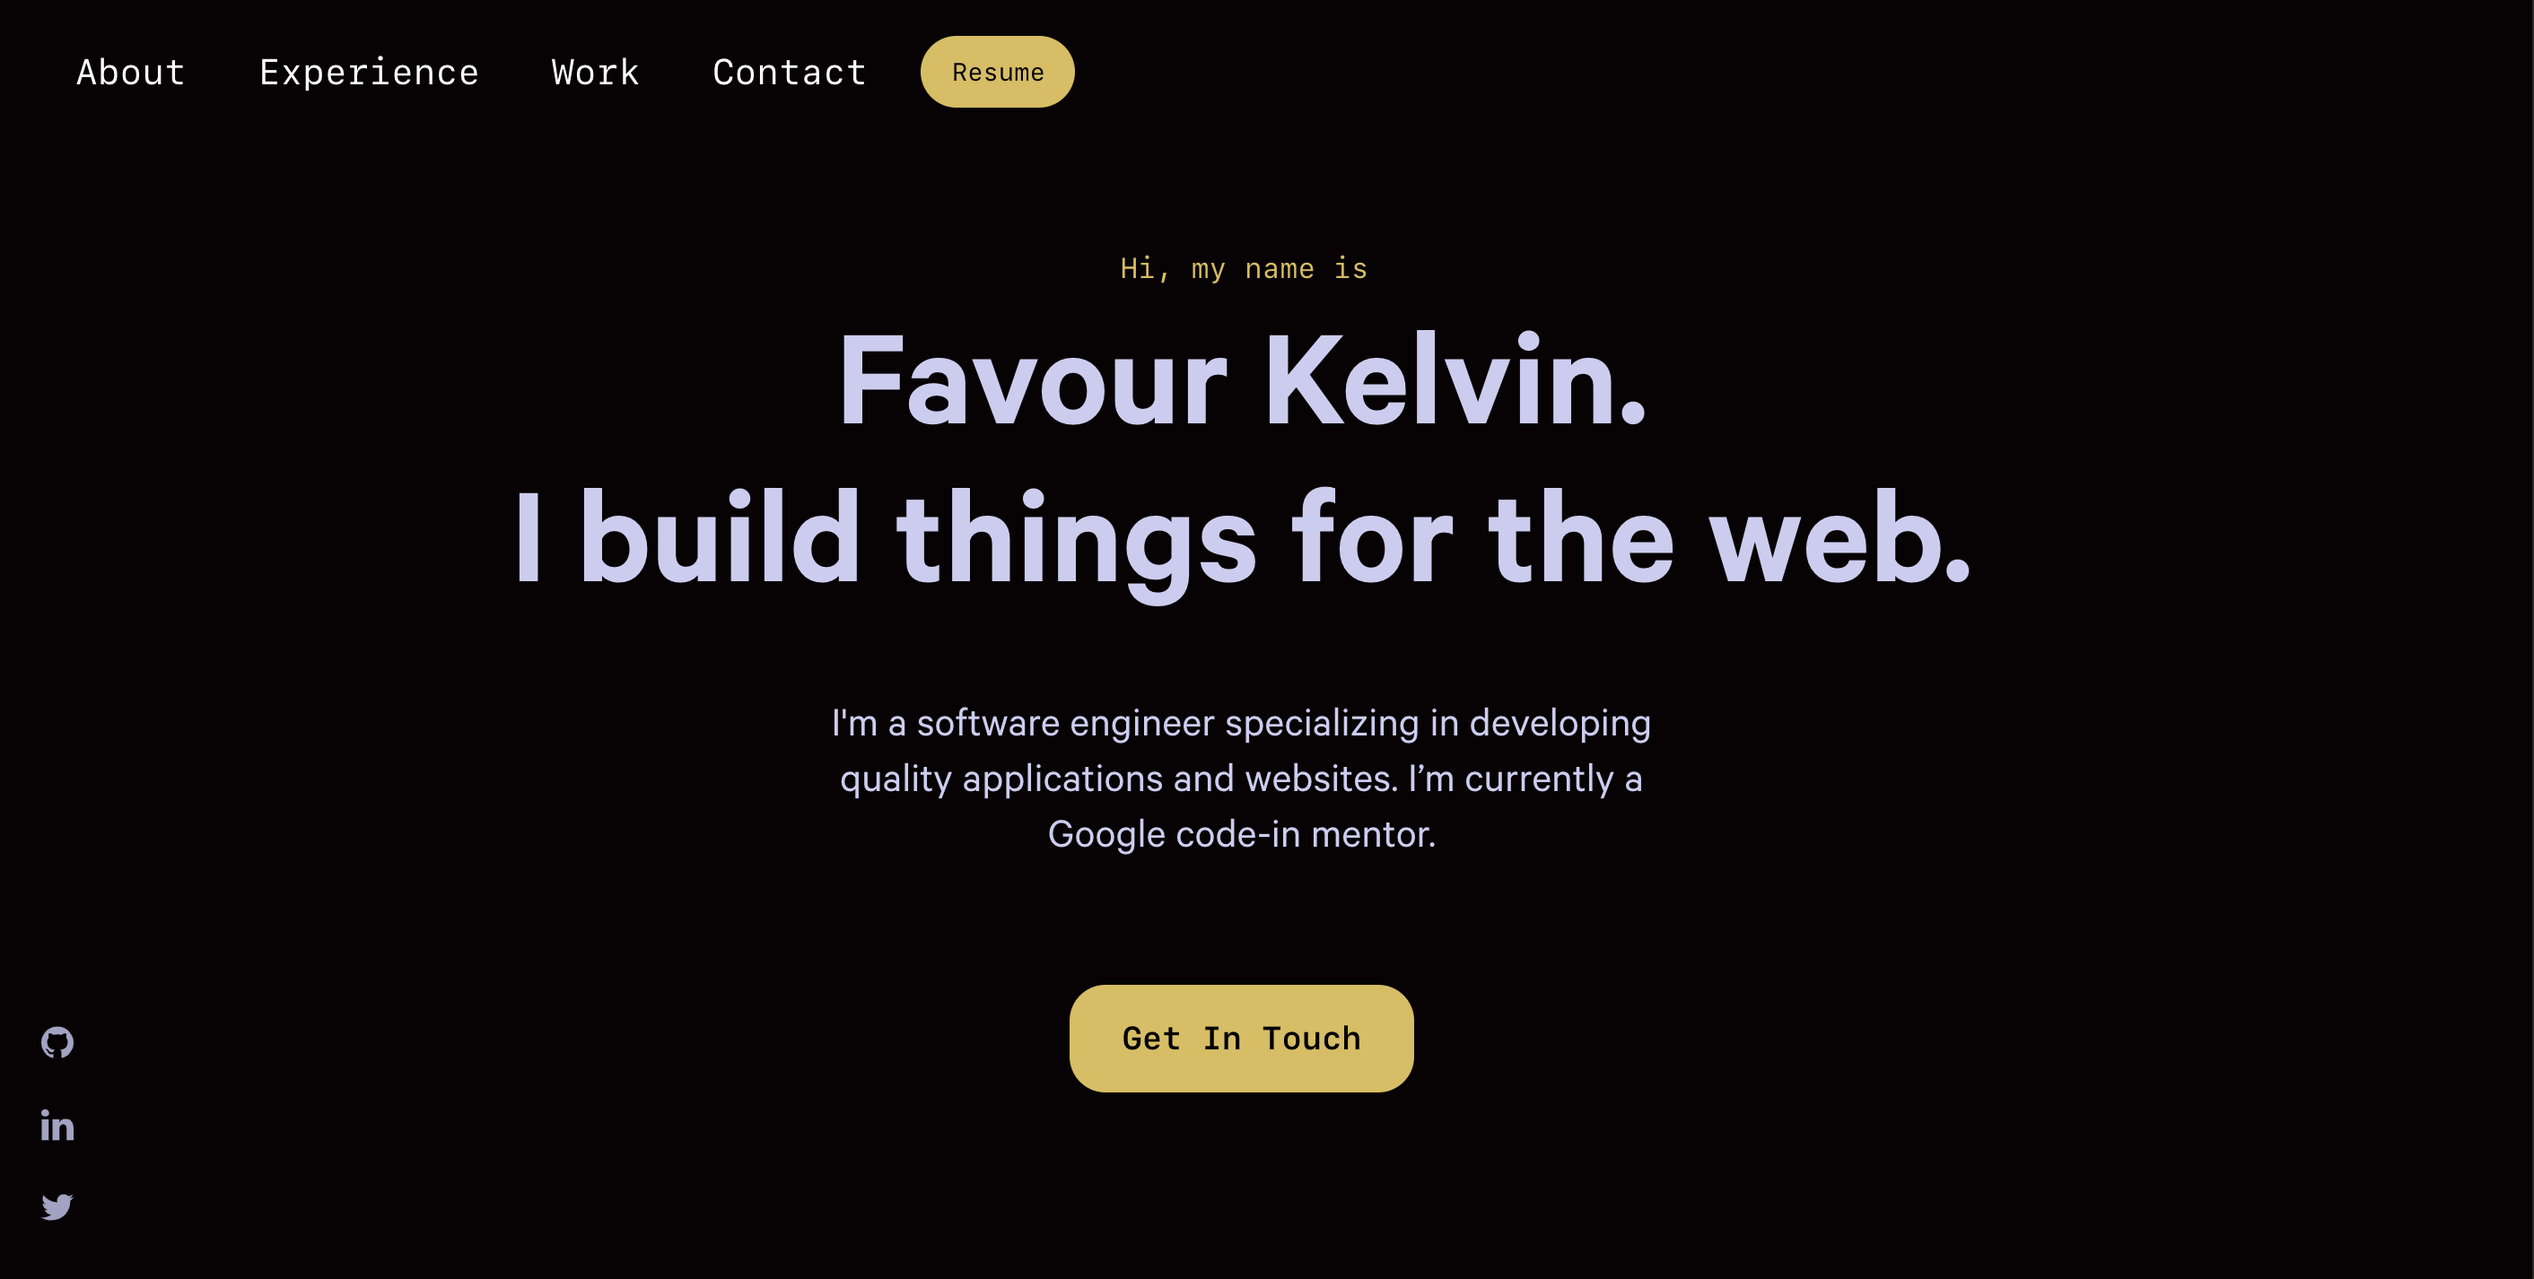
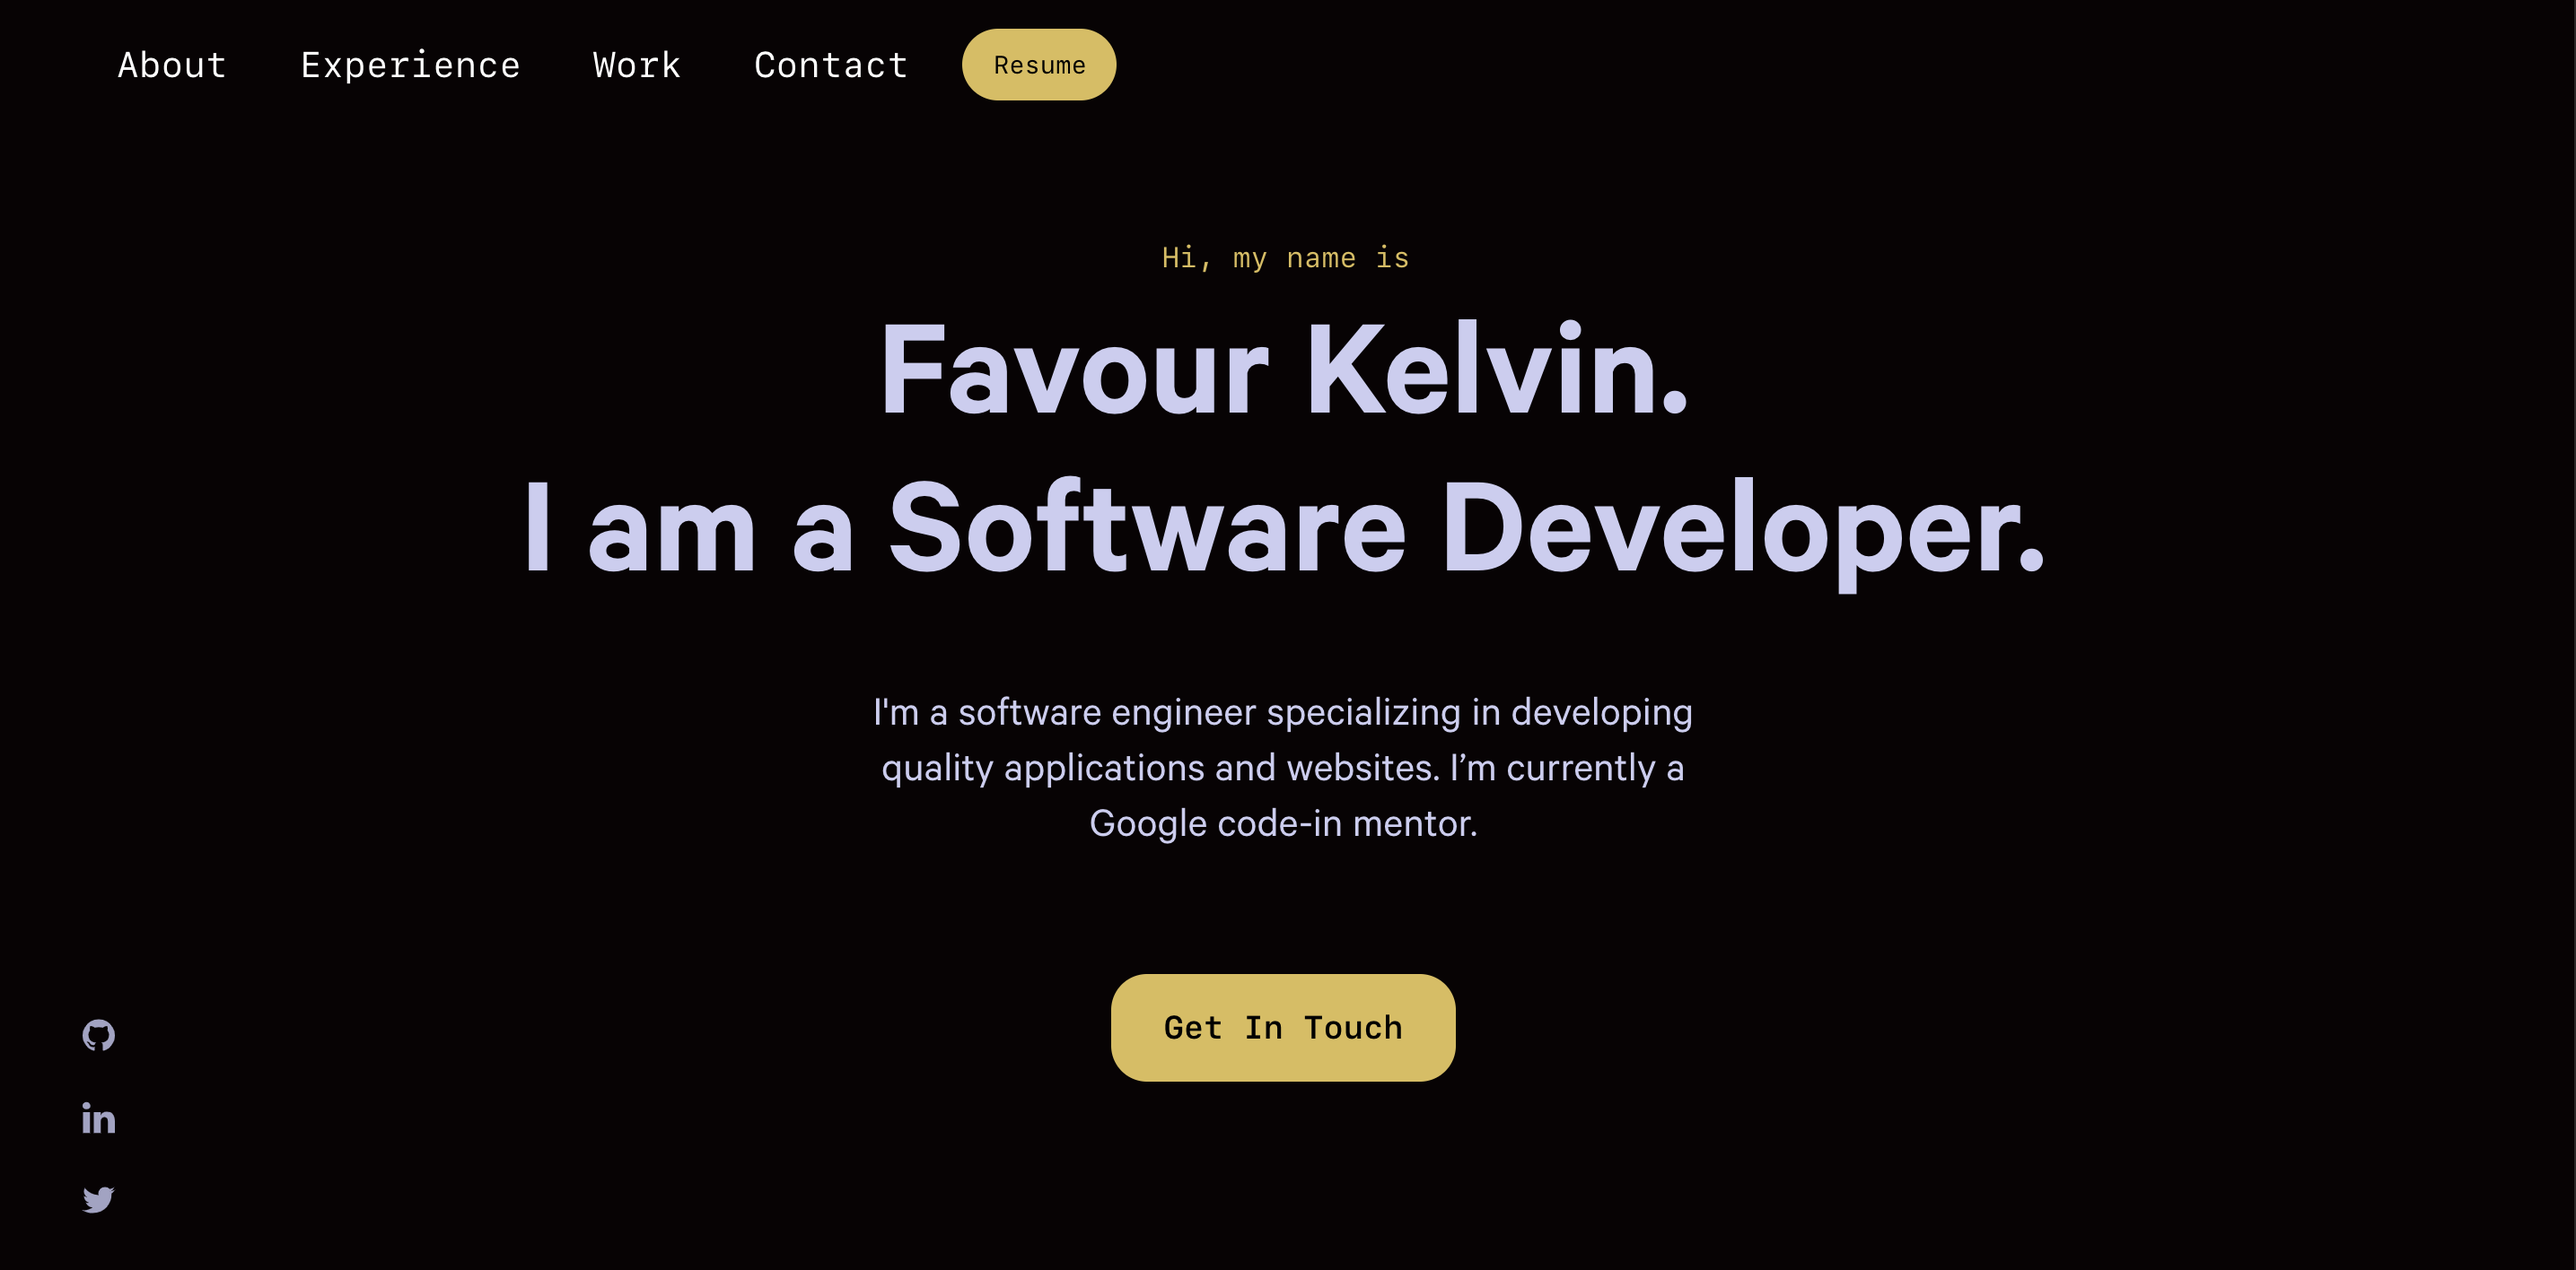
updates

diff --git a/content/hero/index.md b/content/hero/index.md
@@ -1,7 +1,7 @@
 ---
 title: 'Hi, my name is'
 name: 'Favour Kelvin'
-subtitle: 'I'm a Software developer.'
+subtitle: 'I am a Software Developer.'
 contactText: 'Get In Touch'
 ---
 
